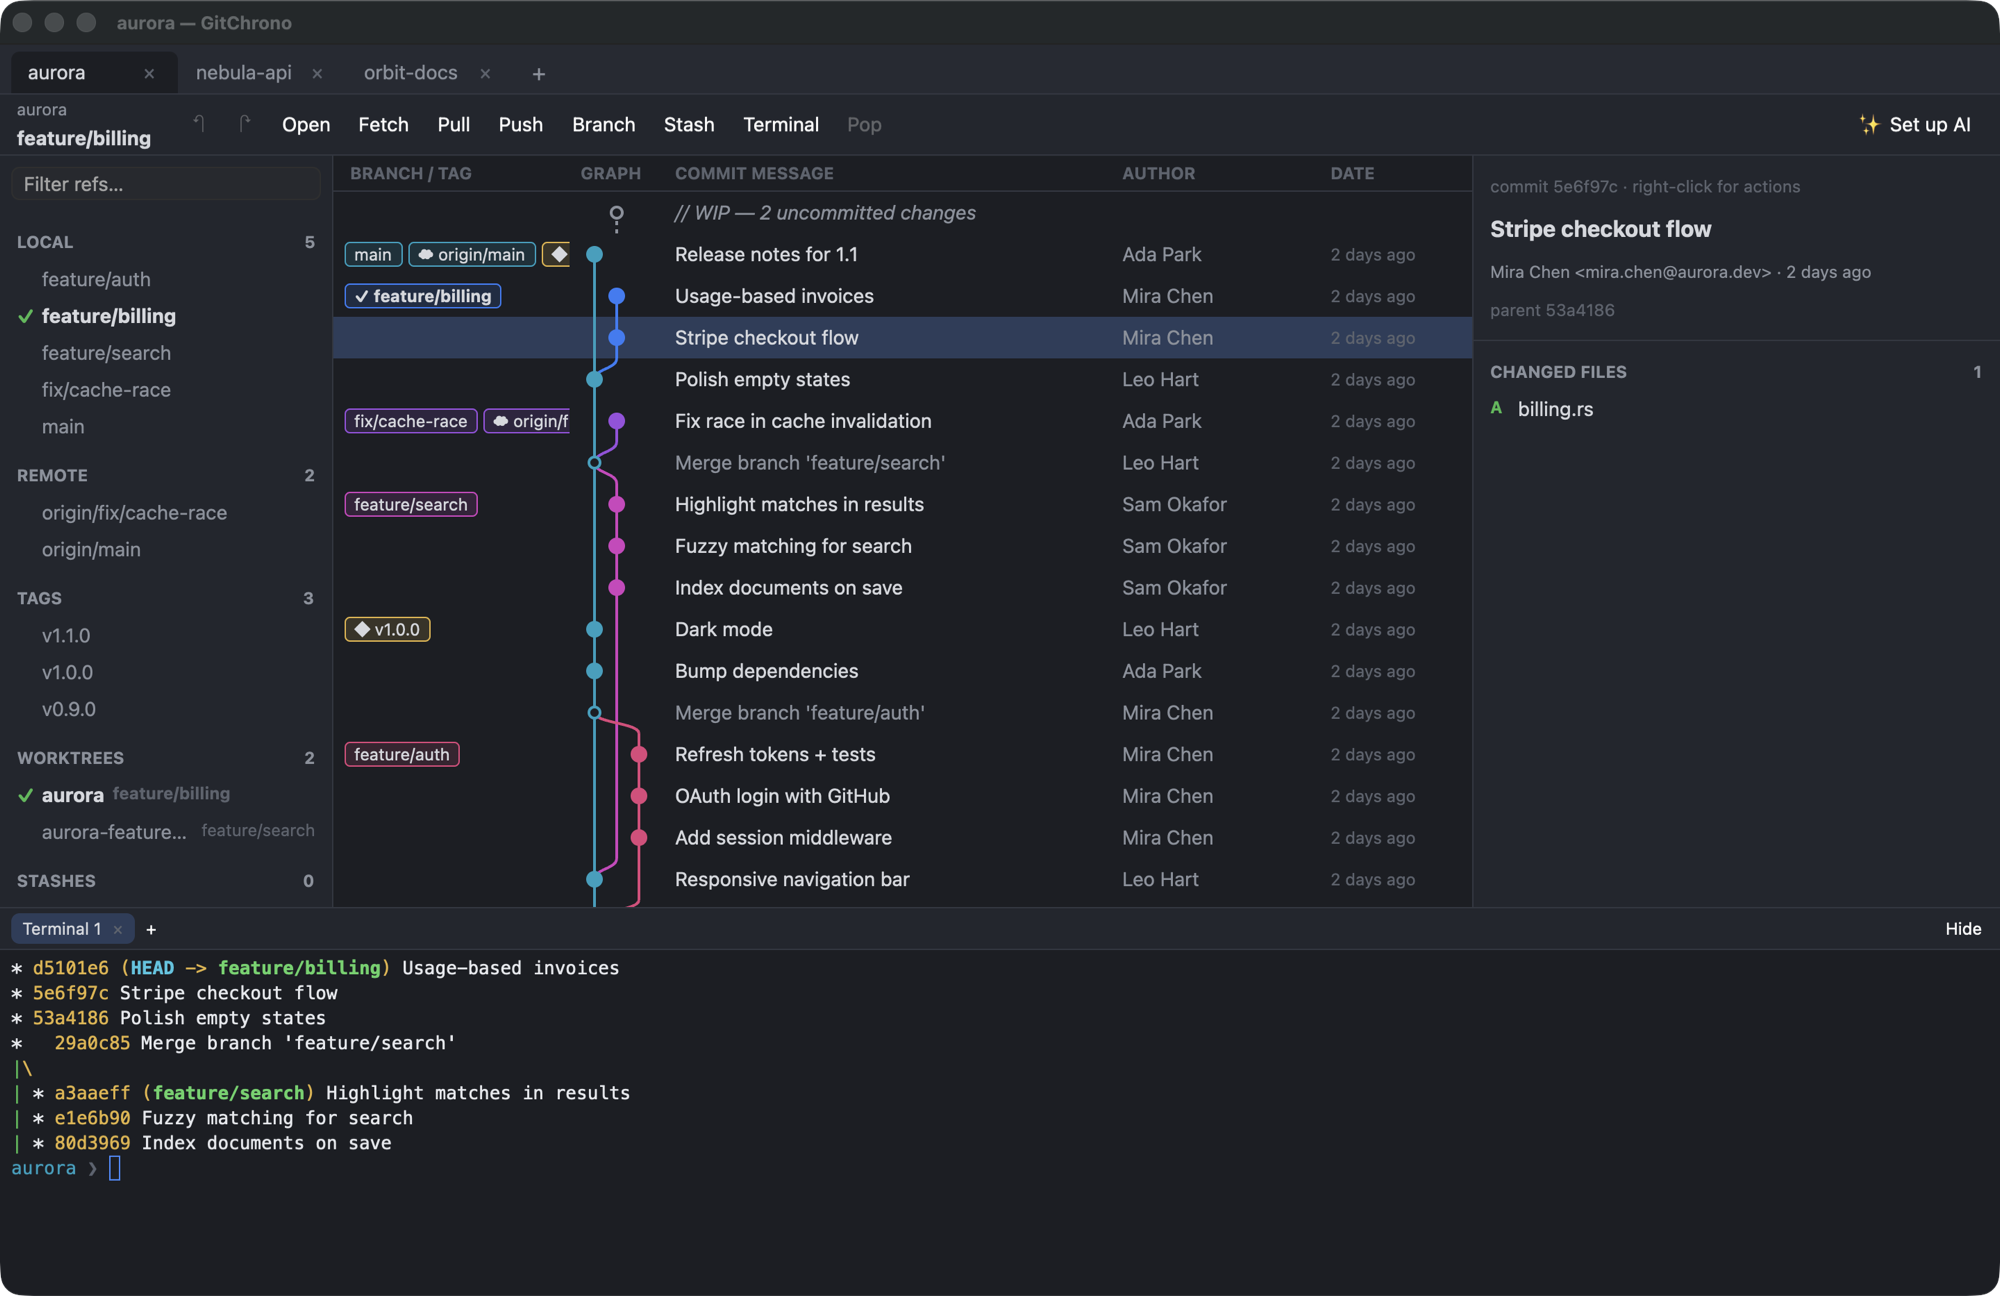
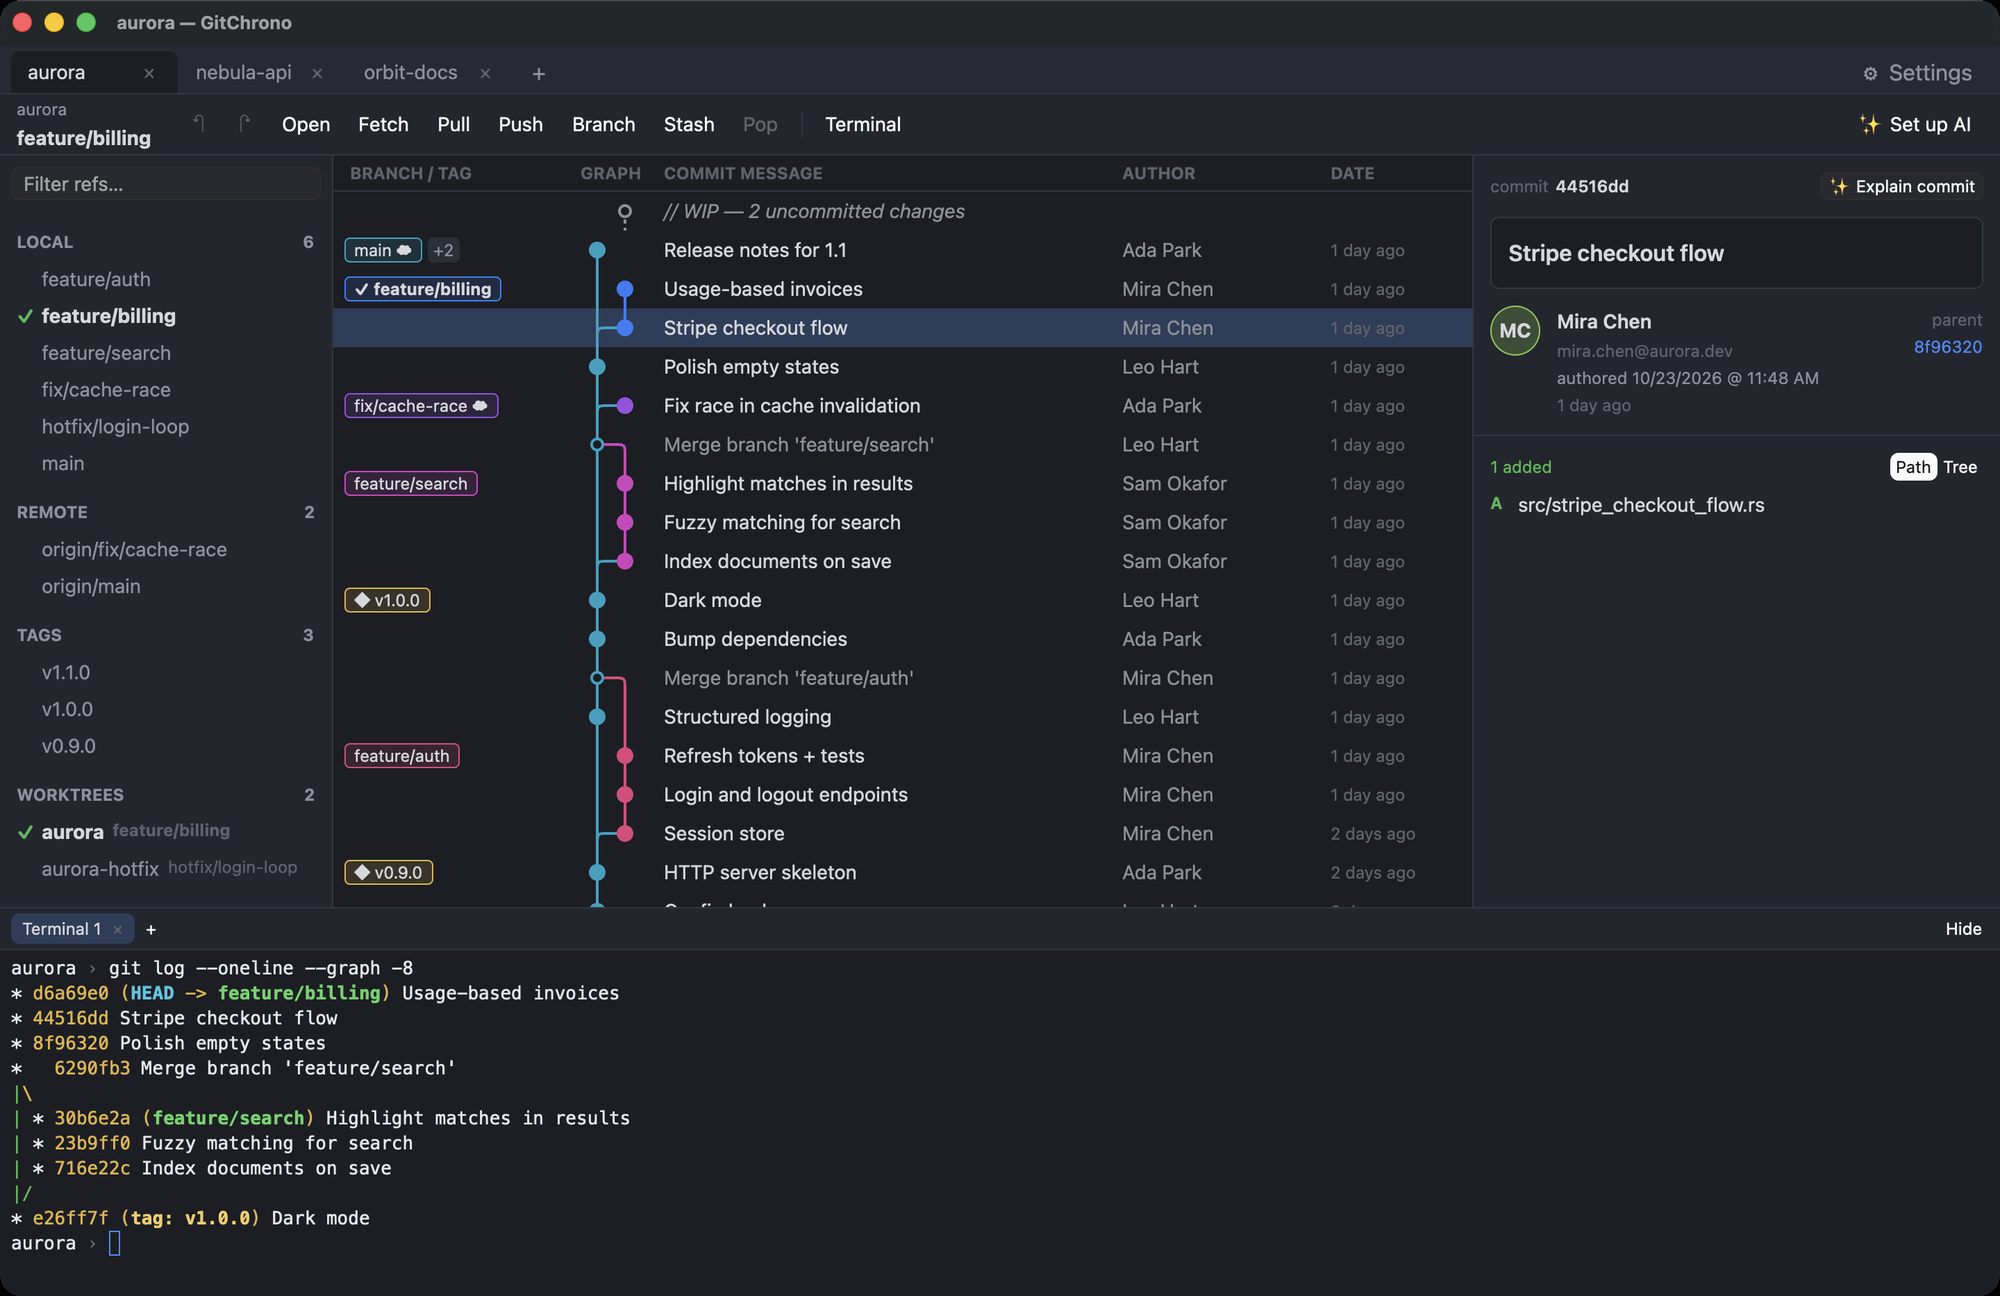
Website: fresh screenshot and social image, plain-language copy
New screenshot from the current build (date-ordered graph, one ref badge
per row instead of clipped labels, new commit panel), made with
scripts/demo-repos.sh. Copy drops implementation jargon (gitoxide, gpui,
topological order, hunks, SHA, Rust code sample) in favour of what it means
for the user, and mentions Settings, multi-file staging and Explain commit.

diff --git a/site/index.html b/site/index.html
@@ -4,7 +4,7 @@
   <meta charset="utf-8">
   <meta name="viewport" content="width=device-width, initial-scale=1">
   <title>GitChrono — Fast, native Git GUI for macOS, Windows &amp; Linux</title>
-  <meta name="description" content="GitChrono is a free, open-source Git GUI client written in Rust: a colorful commit graph, line-level staging, instant diffs and optional AI commit messages. For macOS, Windows and Linux.">
+  <meta name="description" content="GitChrono is a free, open-source Git app for macOS, Windows and Linux: a colorful commit graph, line-by-line staging, instant diffs and optional AI commit messages.">
   <meta name="keywords" content="git gui, git client, git gui alternative, git commit graph, rust git client, open source git gui, mac git client, linux git client, windows git client">
   <link rel="canonical" href="https://gitchrono.com/">
   <meta name="robots" content="index, follow, max-image-preview:large">
@@ -13,7 +13,7 @@
   <meta property="og:type" content="website">
   <meta property="og:site_name" content="GitChrono">
   <meta property="og:title" content="GitChrono — Fast, native Git GUI">
-  <meta property="og:description" content="A colorful commit graph, line-level staging and instant diffs. Written in Rust, GPU-rendered, free and open source.">
+  <meta property="og:description" content="A colorful commit graph, line-by-line staging and instant diffs. Fast, native, free and open source.">
   <meta property="og:image" content="https://gitchrono.com/assets/og.png">
   <meta property="og:image:width" content="1200">
   <meta property="og:image:height" content="630">
@@ -22,7 +22,7 @@
   <meta property="og:locale" content="en_US">
   <meta name="twitter:card" content="summary_large_image">
   <meta name="twitter:title" content="GitChrono — Fast, native Git GUI">
-  <meta name="twitter:description" content="A colorful commit graph, line-level staging and instant diffs. Written in Rust, free and open source.">
+  <meta name="twitter:description" content="A colorful commit graph, line-by-line staging and instant diffs. Fast, native, free and open source.">
   <meta name="twitter:image" content="https://gitchrono.com/assets/og.png">
   <script type="application/ld+json">
   {
@@ -32,7 +32,7 @@
         "@type": "SoftwareApplication",
         "name": "GitChrono",
         "url": "https://gitchrono.com/",
-        "description": "A fast, native Git GUI client written in Rust with a commit graph, line-level staging and diffs.",
+        "description": "A fast, native Git app with a commit graph, line-by-line staging and diffs.",
         "applicationCategory": "DeveloperApplication",
         "operatingSystem": "macOS, Windows, Linux",
         "softwareVersion": "0.2.0",
@@ -46,9 +46,9 @@
         "@type": "FAQPage",
         "mainEntity": [
           { "@type": "Question", "name": "Is GitChrono free?", "acceptedAnswer": { "@type": "Answer", "text": "Yes. The Git client is free and open source under the Apache-2.0 licence. Optional AI features work with your own API key, or with prepaid credits later." } },
-          { "@type": "Question", "name": "Why another Git client?", "acceptedAnswer": { "@type": "Answer", "text": "GitChrono is native Rust instead of Electron: it opens huge repositories in seconds, stays light on memory and battery, and works without an account." } },
+          { "@type": "Question", "name": "Why another Git client?", "acceptedAnswer": { "@type": "Answer", "text": "GitChrono is a real desktop app, not a web page in a wrapper: it opens huge repositories in seconds, stays light on memory and battery, and works without an account." } },
           { "@type": "Question", "name": "Which platforms does GitChrono support?", "acceptedAnswer": { "@type": "Answer", "text": "macOS (Apple Silicon and Intel), Windows 64-bit and Linux (x86_64 and ARM64)." } },
-          { "@type": "Question", "name": "Does GitChrono upload my code?", "acceptedAnswer": { "@type": "Answer", "text": "No. GitChrono works locally with your git installation. AI features only send a trimmed diff, with secrets redacted, to the provider you choose, and only when you click an AI button." } },
+          { "@type": "Question", "name": "Does GitChrono upload my code?", "acceptedAnswer": { "@type": "Answer", "text": "No. GitChrono works locally with your git installation. AI features only send the changes involved, trimmed and with passwords and keys removed, to the provider you choose, and only when you click an AI button." } },
           { "@type": "Question", "name": "Is GitChrono stable?", "acceptedAnswer": { "@type": "Answer", "text": "GitChrono is in alpha. Expect bugs and keep a pushed remote or backup of repositories you can't afford to lose." } }
         ]
       }
@@ -257,7 +257,7 @@
 
   <header class="hero">
     <div class="wrap">
-      <span class="eyebrow"><span class="dot"></span> Open source · written in Rust</span>
+      <span class="eyebrow"><span class="dot"></span> Free and open source</span>
       <h1>The Git client that <span class="grad">keeps up with you.</span></h1>
       <p class="lede">GitChrono gives you a colorful commit graph, line-by-line staging and instant diffs — in a native app that opens huge repositories in seconds.</p>
       <div class="cta">
@@ -273,7 +273,7 @@
       <div class="fine" id="hero-fine">macOS · Windows · Linux — free</div>
 
       <div class="shot">
-        <img src="assets/screenshot.png" width="2000" height="1296" fetchpriority="high" alt="GitChrono with repository tabs, a colorful commit graph, a worktree in the sidebar and the built-in terminal">
+        <img src="assets/screenshot.png" width="2000" height="1296" fetchpriority="high" alt="GitChrono with repository tabs, a colorful commit graph, commit details and the built-in terminal">
       </div>
 
       <div class="stats">
@@ -293,17 +293,17 @@
         <div class="card" style="--c: var(--cyan)">
           <div class="ico"><svg viewBox="0 0 24 24" fill="none" stroke="currentColor" stroke-width="2" stroke-linecap="round"><circle cx="6" cy="5" r="2"/><circle cx="6" cy="19" r="2"/><circle cx="18" cy="12" r="2"/><path d="M6 7v10M6 9c0 3 12 0 12 3"/></svg></div>
           <h3>A graph you can read</h3>
-          <p>Every branch, remote, tag and stash in one colorful, topologically ordered graph — with HEAD and your uncommitted work right on top.</p>
+          <p>Every branch, tag and stash in one colorful graph, newest first — with your current branch and uncommitted work right on top.</p>
         </div>
         <div class="card" style="--c: var(--green)">
           <div class="ico"><svg viewBox="0 0 24 24" fill="none" stroke="currentColor" stroke-width="2" stroke-linecap="round"><path d="M4 6h10M4 12h16M4 18h7"/><path d="m16 16 2 2 4-4"/></svg></div>
           <h3>Stage lines, not just files</h3>
-          <p>Click the exact lines you want, or stage, unstage and discard whole hunks. Perfect commits without touching the terminal.</p>
+          <p>Pick the exact lines you want, or whole blocks of changes, or several files at once. Clean commits without touching the terminal.</p>
         </div>
         <div class="card" style="--c: var(--blue)">
           <div class="ico"><svg viewBox="0 0 24 24" fill="none" stroke="currentColor" stroke-width="2" stroke-linecap="round"><path d="M13 2 4 14h7l-1 8 9-12h-7z"/></svg></div>
           <h3>Native speed</h3>
-          <p>Rust from top to bottom, GPU-rendered with gpui. History comes straight from gitoxide, so even giant repos open in seconds.</p>
+          <p>A true desktop app, not a website in a wrapper. Repositories with a hundred thousand commits open in seconds and scroll smoothly.</p>
         </div>
         <div class="card" style="--c: var(--violet)">
           <div class="ico"><svg viewBox="0 0 24 24" fill="none" stroke="currentColor" stroke-width="2" stroke-linecap="round"><rect x="4" y="4" width="16" height="16" rx="3"/><path d="M8 9h8M8 13h8M8 17h4"/></svg></div>
@@ -318,7 +318,7 @@
         <div class="card" style="--c: var(--amber)">
           <div class="ico"><svg viewBox="0 0 24 24" fill="none" stroke="currentColor" stroke-width="2" stroke-linecap="round"><path d="M12 3 4 7v5c0 5 3.5 8 8 9 4.5-1 8-4 8-9V7z"/><path d="m9 12 2 2 4-4"/></svg></div>
           <h3>Behaves exactly like git</h3>
-          <p>Writes go through your own git, so hooks, SSH keys, credential helpers and commit signing all just work.</p>
+          <p>Uses the git you already have, so your SSH keys, passwords and signing just work. Settings sets up your name, email and SSH keys for you.</p>
         </div>
         <div class="card" style="--c: var(--cyan)">
           <div class="ico"><svg viewBox="0 0 24 24" fill="none" stroke="currentColor" stroke-width="2" stroke-linecap="round"><rect x="3" y="6" width="18" height="14" rx="2"/><path d="M3 10h18M8 6V4h5v2"/></svg></div>
@@ -333,7 +333,7 @@
         <div class="card" style="--c: var(--blue)">
           <div class="ico"><svg viewBox="0 0 24 24" fill="none" stroke="currentColor" stroke-width="2" stroke-linecap="round"><circle cx="11" cy="11" r="6"/><path d="m20 20-4.5-4.5"/></svg></div>
           <h3>Palette and search</h3>
-          <p>⌘P runs any action, checks out any branch or opens any repository. ⌘F searches history by message, author or SHA.</p>
+          <p>⌘P runs any action, checks out any branch or opens any repository. ⌘F searches history by message, author or commit ID.</p>
         </div>
         <div class="card" style="--c: var(--violet)">
           <div class="ico"><svg viewBox="0 0 24 24" fill="none" stroke="currentColor" stroke-width="2" stroke-linecap="round"><path d="M9 14 4 9l5-5"/><path d="M4 9h11a5 5 0 0 1 0 10h-3"/></svg></div>
@@ -348,7 +348,7 @@
         <div class="card" style="--c: var(--amber)">
           <div class="ico"><svg viewBox="0 0 24 24" fill="none" stroke="currentColor" stroke-width="2" stroke-linecap="round"><path d="M12 3v4M12 17v4M3 12h4M17 12h4M6 6l2.5 2.5M15.5 15.5 18 18M6 18l2.5-2.5M15.5 8.5 18 6"/></svg></div>
           <h3>AI commit messages</h3>
-          <p>One click writes a commit message in your repository's style, using your own OpenAI, Anthropic, Mistral, Gemini or local model.</p>
+          <p>One click writes a commit message in your repository's style, or explains what any commit does, using your own OpenAI, Anthropic, Mistral, Gemini or local model.</p>
         </div>
       </div>
     </div>
@@ -360,20 +360,20 @@
       <h2>Fast where it matters, faithful everywhere else.</h2>
       <div class="split">
         <ul class="list">
-          <li style="--c: var(--cyan)"><span class="n">1</span><div><b>Reads in-process with gitoxide</b><span>History walks, refs and commit trees are read directly from the object database — no subprocess per commit.</span></div></li>
-          <li style="--c: var(--blue)"><span class="n">2</span><div><b>Writes through your git</b><span>Commit, push, rebase and stash run your installed <code>git</code>, so every repository behaves exactly like it does in the terminal.</span></div></li>
-          <li style="--c: var(--violet)"><span class="n">3</span><div><b>Painted on the GPU</b><span>The graph and lists are virtualized and drawn with gpui, the framework behind the Zed editor.</span></div></li>
+          <li style="--c: var(--cyan)"><span class="n">1</span><div><b>Reads your history directly</b><span>Commits and branches are read straight from the repository on your disk, so even huge histories show up in seconds.</span></div></li>
+          <li style="--c: var(--blue)"><span class="n">2</span><div><b>Changes go through your git</b><span>Commit, push, rebase and stash use the git already on your computer, so every repository behaves exactly like it does in the terminal.</span></div></li>
+          <li style="--c: var(--violet)"><span class="n">3</span><div><b>Smooth at any size</b><span>Only what's on screen gets drawn, so scrolling stays smooth whether you have a hundred commits or a hundred thousand.</span></div></li>
         </ul>
-        <pre class="code"><span class="c">// gitchrono-core: the history walk</span>
-<span class="k">let</span> walk = topo::<span class="f">Builder</span>::<span class="f">new</span>(&amp;repo.objects)
-    .<span class="f">with_tips</span>(tips)
-    .<span class="f">sorting</span>(topo::Sorting::TopoOrder)
-    .<span class="f">with_commit_graph</span>(repo.<span class="f">commit_graph_if_enabled</span>()?)
-    .<span class="f">build</span>()?;
+        <pre class="code"><span class="c">// You click Commit in GitChrono…</span>
+git commit -m <span class="f">"Stripe checkout flow"</span>
 
-<span class="c">// …and a partial patch for line staging</span>
-repo.<span class="f">apply_patch</span>(&amp;patch, ApplyMode::Stage)?;
-<span class="c">//   → git apply --cached --recount -</span></pre>
+<span class="c">// …your own git does the work:</span>
+<span class="k">✓</span> your hooks run
+<span class="k">✓</span> your key signs the commit
+<span class="k">✓</span> same result as the terminal
+
+<span class="c">// Staging a few lines works the same way:</span>
+git apply --cached <span class="c"># just the lines you picked</span></pre>
       </div>
     </div>
   </section>
@@ -412,10 +412,10 @@ repo.<span class="f">apply_patch</span>(&amp;patch, ApplyMode::Stage)?;
       <div class="oc">
         <div class="tier">
           <h3>GitChrono</h3>
-          <div class="price">Free · Apache-2.0</div>
+          <div class="price">Free and open source</div>
           <ul>
             <li>Commit graph and diffs</li>
-            <li>Line- and hunk-level staging</li>
+            <li>Stage single lines, blocks or many files at once</li>
             <li>Branches, tags, stashes, merge &amp; rebase</li>
             <li>Every platform, no account required</li>
           </ul>
@@ -441,9 +441,9 @@ repo.<span class="f">apply_patch</span>(&amp;patch, ApplyMode::Stage)?;
       <h2>Questions, answered.</h2>
       <div class="faq">
         <details><summary>Is GitChrono free?</summary><p>Yes. The Git client is free and open source under the Apache-2.0 licence. Optional AI features work with your own API key, or with prepaid credits later.</p></details>
-        <details><summary>Why another Git client?</summary><p>GitChrono is native Rust instead of Electron: it opens huge repositories in seconds, stays light on memory and battery, and works without an account.</p></details>
+        <details><summary>Why another Git client?</summary><p>GitChrono is a real desktop app, not a web page in a wrapper: it opens huge repositories in seconds, stays light on memory and battery, and works without an account.</p></details>
         <details><summary>Which platforms are supported?</summary><p>macOS (Apple Silicon and Intel), Windows 64-bit and Linux (x86_64 and ARM64).</p></details>
-        <details><summary>Does GitChrono upload my code?</summary><p>No. It works locally with your own <code>git</code>. AI features only send a trimmed diff, with secrets redacted, to the provider you choose, and only when you click an AI button.</p></details>
+        <details><summary>Does GitChrono upload my code?</summary><p>No. It works locally with your own <code>git</code>. AI features only send the changes involved, trimmed and with passwords and keys removed, to the provider you choose, and only when you click an AI button.</p></details>
         <details><summary>Is it stable?</summary><p>GitChrono is in alpha: use it at your own risk. Keep a pushed remote or a backup of repositories you can't afford to lose.</p></details>
       </div>
     </div>
